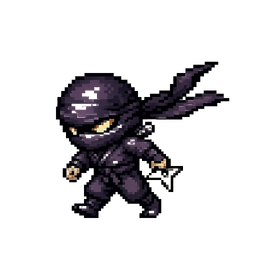
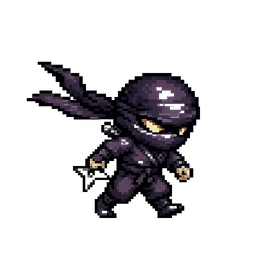
Fix ninja walking backwards — flip walk2 sprite to face left
walk2.png faced right while walk1 faced left. Flipped walk2 on disk
so both face left (matching project convention). Reverted per-frame
R override back to simple shared flag.

Changed region(s): [[0.0938, 0.2188, 0.9062, 0.875]]

diff --git a/src/game/renderer.js b/src/game/renderer.js
@@ -1705,7 +1705,7 @@ const ENEMY_SPRITE_MAP = {
   },
   ninja: {
     idle:    { key: "ninja_idle", R: false },
-    patrol:  { frames: [{ key: "ninja_walk1", R: false }, { key: "ninja_walk2", R: true }] },
+    patrol:  { frames: ["ninja_walk1", "ninja_walk2"], R: false },
     chase:   { key: "ninja_idle", R: false },
     alert:   { key: "ninja_alert", R: false },
     throw:   { key: "ninja_throw", R: false },
